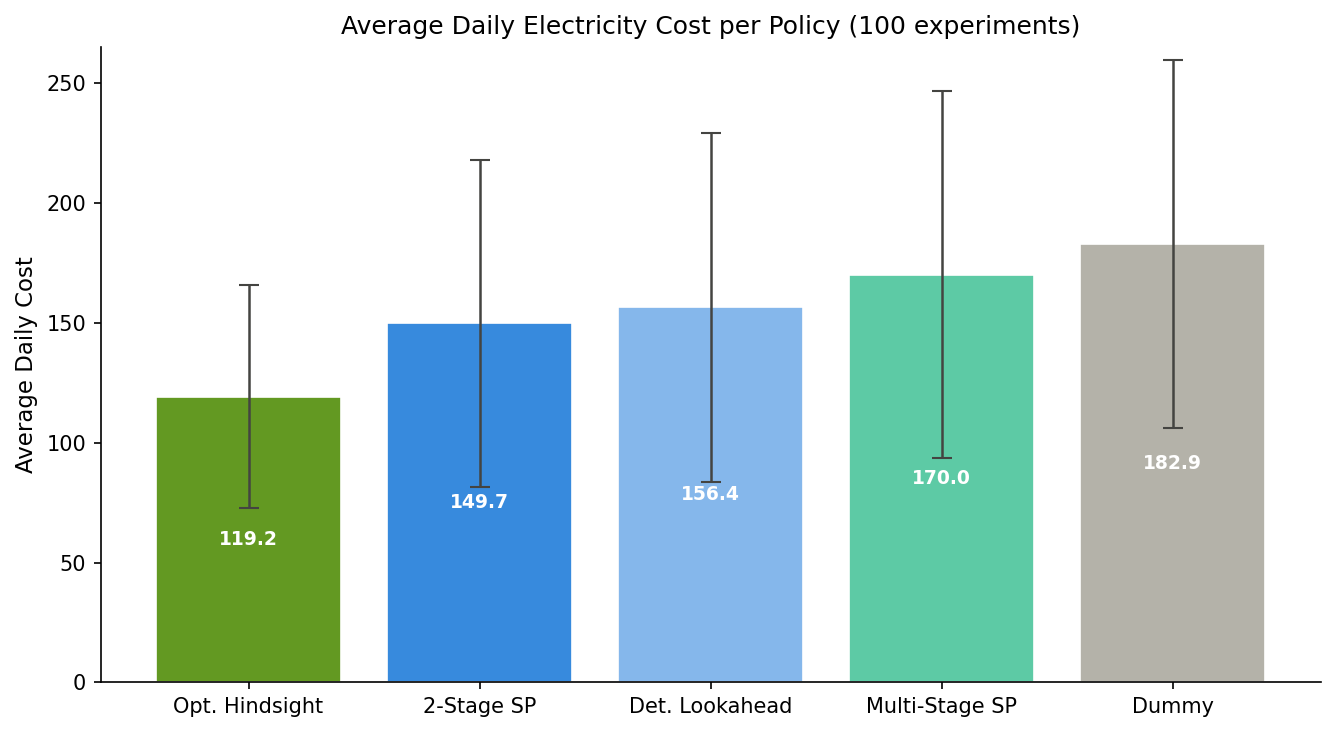
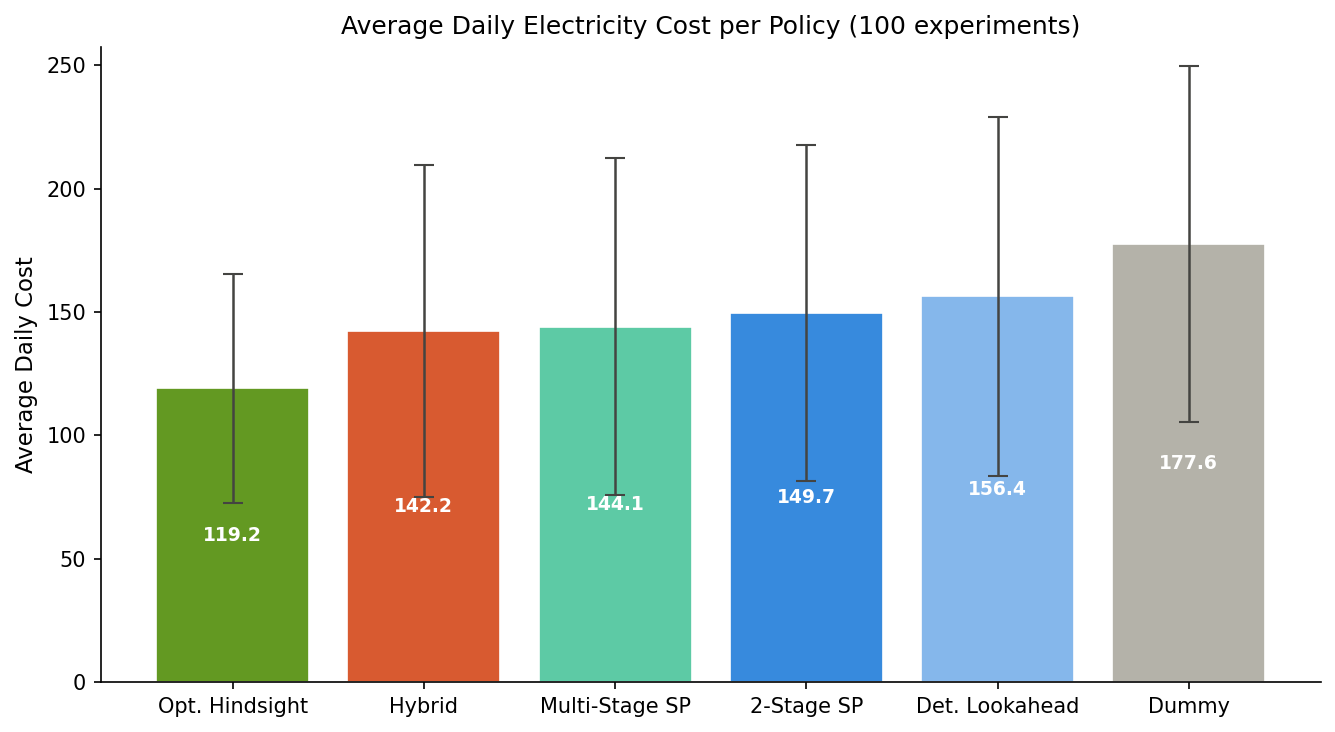
read hybrid results

diff --git a/PART_B/read_results.py b/PART_B/read_results.py
@@ -2,7 +2,7 @@ import numpy as np
 import matplotlib.pyplot as plt
 import matplotlib.patches as mpatches
 
-policies = ["dummy", "lookahead", "SP", "multiSP", "hindsight"]
+policies = ["dummy", "lookahead", "SP", "multiSP", "hindsight", "Hybrid_multi_and_adp"]  # List of policy identifiers to load results for
 
 policy_labels = {
     "dummy":     "Dummy",
@@ -11,7 +11,7 @@ policy_labels = {
     "multiSP":   "Multi-Stage SP",
     "hindsight": "Opt. Hindsight",
     "ADP":       "ADP",
-    "hybrid":    "Hybrid",
+    "Hybrid_multi_and_adp":    "Hybrid",
 }
 
 colors = {
@@ -21,7 +21,7 @@ colors = {
     "multiSP":   "#5DCAA5",
     "hindsight": "#639922",
     "ADP":       "#EF9F27",
-    "hybrid":    "#D85A30",
+    "Hybrid_multi_and_adp":    "#D85A30",
 }
 
 results = {}
